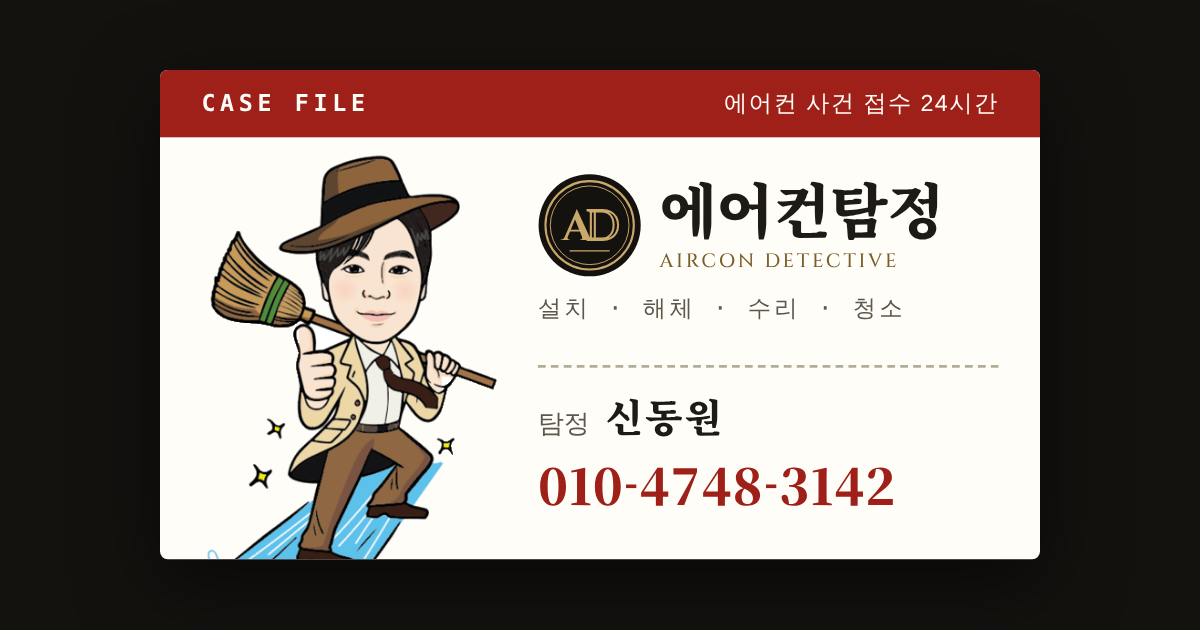
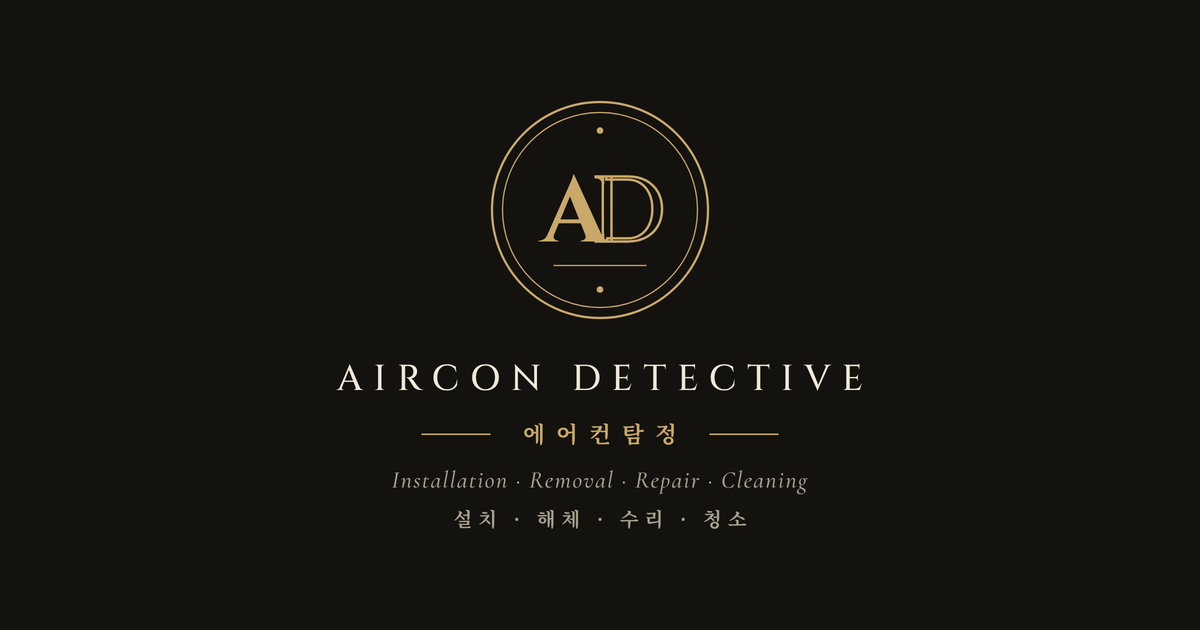
Add files via upload

diff --git a/card/index.html b/card/index.html
@@ -8,11 +8,11 @@
 <meta property="og:type" content="profile">
 <meta property="og:title" content="에어컨탐정 명함">
 <meta property="og:description" content="설치 · 해체 · 수리 · 청소 | 대전·세종·충청권 24시간 상담 010-4748-3142">
-<meta property="og:image" content="https://aircon-detective.vercel.app/card/og.png?v=4">
+<meta property="og:image" content="https://aircon-detective.vercel.app/card/og.png?v=5">
 <meta property="og:image:width" content="800">
 <meta property="og:image:height" content="419">
 <meta name="twitter:card" content="summary_large_image">
-<meta property="og:url" content="https://aircon-detective.vercel.app/card/?v=4">
+<meta property="og:url" content="https://aircon-detective.vercel.app/card/?v=5">
 <meta name="theme-color" content="#1E1B16">
 <link rel="canonical" href="https://aircon-detective.vercel.app/card/">
 <link rel="icon" href="/favicon.ico">
@@ -26,8 +26,9 @@ html,body{margin:0;background:#1E1B16}
 body{font-family:'Noto Sans KR',sans-serif;color:var(--ink);-webkit-font-smoothing:antialiased}
 a{color:inherit;text-decoration:none}
 .wrap{max-width:440px;margin:0 auto;min-height:100vh;background:var(--paper);display:flex;flex-direction:column;padding-bottom:calc(28px + env(safe-area-inset-bottom))}
-.hero{background:var(--ink);padding:34px 20px 28px;display:flex;flex-direction:column;align-items:center;gap:18px}
+.hero{background:#14120F;padding:18px 20px 26px;display:flex;flex-direction:column;align-items:center;gap:18px}
 .hero h1{margin:0;position:absolute;width:1px;height:1px;overflow:hidden;clip:rect(0 0 0 0)}
+.hero-logo{display:block;width:100%;max-width:420px;height:auto}
 .cardbox{width:100%;max-width:400px;aspect-ratio:340/189;position:relative;transform:rotate(-2deg);filter:drop-shadow(0 14px 22px rgba(0,0,0,.45))}
 .bc{position:absolute;left:0;top:0;width:340px;height:189px;transform-origin:0 0;transform:scale(var(--k,1));background:#FFFDF7;color:#1E1B16;overflow:hidden;border-radius:3px}
 .bc-band{height:26px;background:#9E2019;color:#FFFDF7;display:flex;align-items:center;justify-content:space-between;padding:0 16px}
@@ -76,16 +77,7 @@ a{color:inherit;text-decoration:none}
 <main class="wrap">
   <section class="hero">
     <h1>에어컨탐정 명함</h1>
-    <div class="cardbox" id="cardbox">
-      <div class="bc" role="img" aria-label="에어컨탐정 명함 앞면: 설치·해체·수리·청소, 탐정 신동원, 010-4748-3142">
-        <div class="bc-band" aria-hidden="true"><b>CASE FILE</b><span>에어컨 사건 접수 24시간</span></div>
-        <div class="bc-pic" aria-hidden="true"><img src="/img/detective.png" alt=""></div>
-        <div class="bc-txt" aria-hidden="true">
-          <div><div class="bc-logo"><svg viewBox="0 0 150 150"><circle cx="75" cy="75" r="74" fill="#14120F"/><circle cx="75" cy="75" r="64" fill="none" stroke="#C9A86A" stroke-width="3"/><circle cx="75" cy="75" r="57" fill="none" stroke="#C9A86A" stroke-width="1.4"/><text x="57" y="97" text-anchor="middle" font-family="Cinzel,serif" font-weight="700" font-size="62" fill="#C9A86A">A</text><text x="94" y="97" text-anchor="middle" font-family="Cinzel,serif" font-weight="500" font-size="62" fill="none" stroke="#C9A86A" stroke-width="3">D</text><path d="M46 112 H104" stroke="#C9A86A" stroke-width="2"/></svg><span><span class="bc-name">에어컨탐정</span><span class="bc-en">AIRCON DETECTIVE</span></span></div><span class="bc-svc">설치 · 해체 · 수리 · 청소</span></div>
-          <div class="bc-who"><div><small>탐정</small><strong>신동원</strong></div><span class="bc-tel">010-4748-3142</span></div>
-        </div>
-      </div>
-    </div>
+    <img class="hero-logo" src="/card/logo.jpg?v=1" width="1120" height="800" alt="에어컨탐정 AD 로고 · AIRCON DETECTIVE · 설치 · 해체 · 수리 · 청소">
     <p class="hero-cap">에어컨 냄새 · 고장, 원인부터 찾아냅니다.<br>대전 · 세종 · 충청권 24시간 출동</p>
   </section>
 
@@ -136,11 +128,7 @@ a{color:inherit;text-decoration:none}
 <div class="toast" id="toast" role="status"></div>
 <script>
 (function(){
-  var box=document.getElementById('cardbox');
-  function fit(){box.style.setProperty('--k',box.clientWidth/340)}
-  fit();window.addEventListener('resize',fit);
-  if(window.ResizeObserver)new ResizeObserver(fit).observe(box);
-  var url='https://aircon-detective.vercel.app/card/?v=4';
+  var url='https://aircon-detective.vercel.app/card/?v=5';
   var t=document.getElementById('toast');
   function toast(m){t.textContent=m;t.classList.add('on');setTimeout(function(){t.classList.remove('on')},1800)}
   document.getElementById('copyBank').addEventListener('click',function(){
